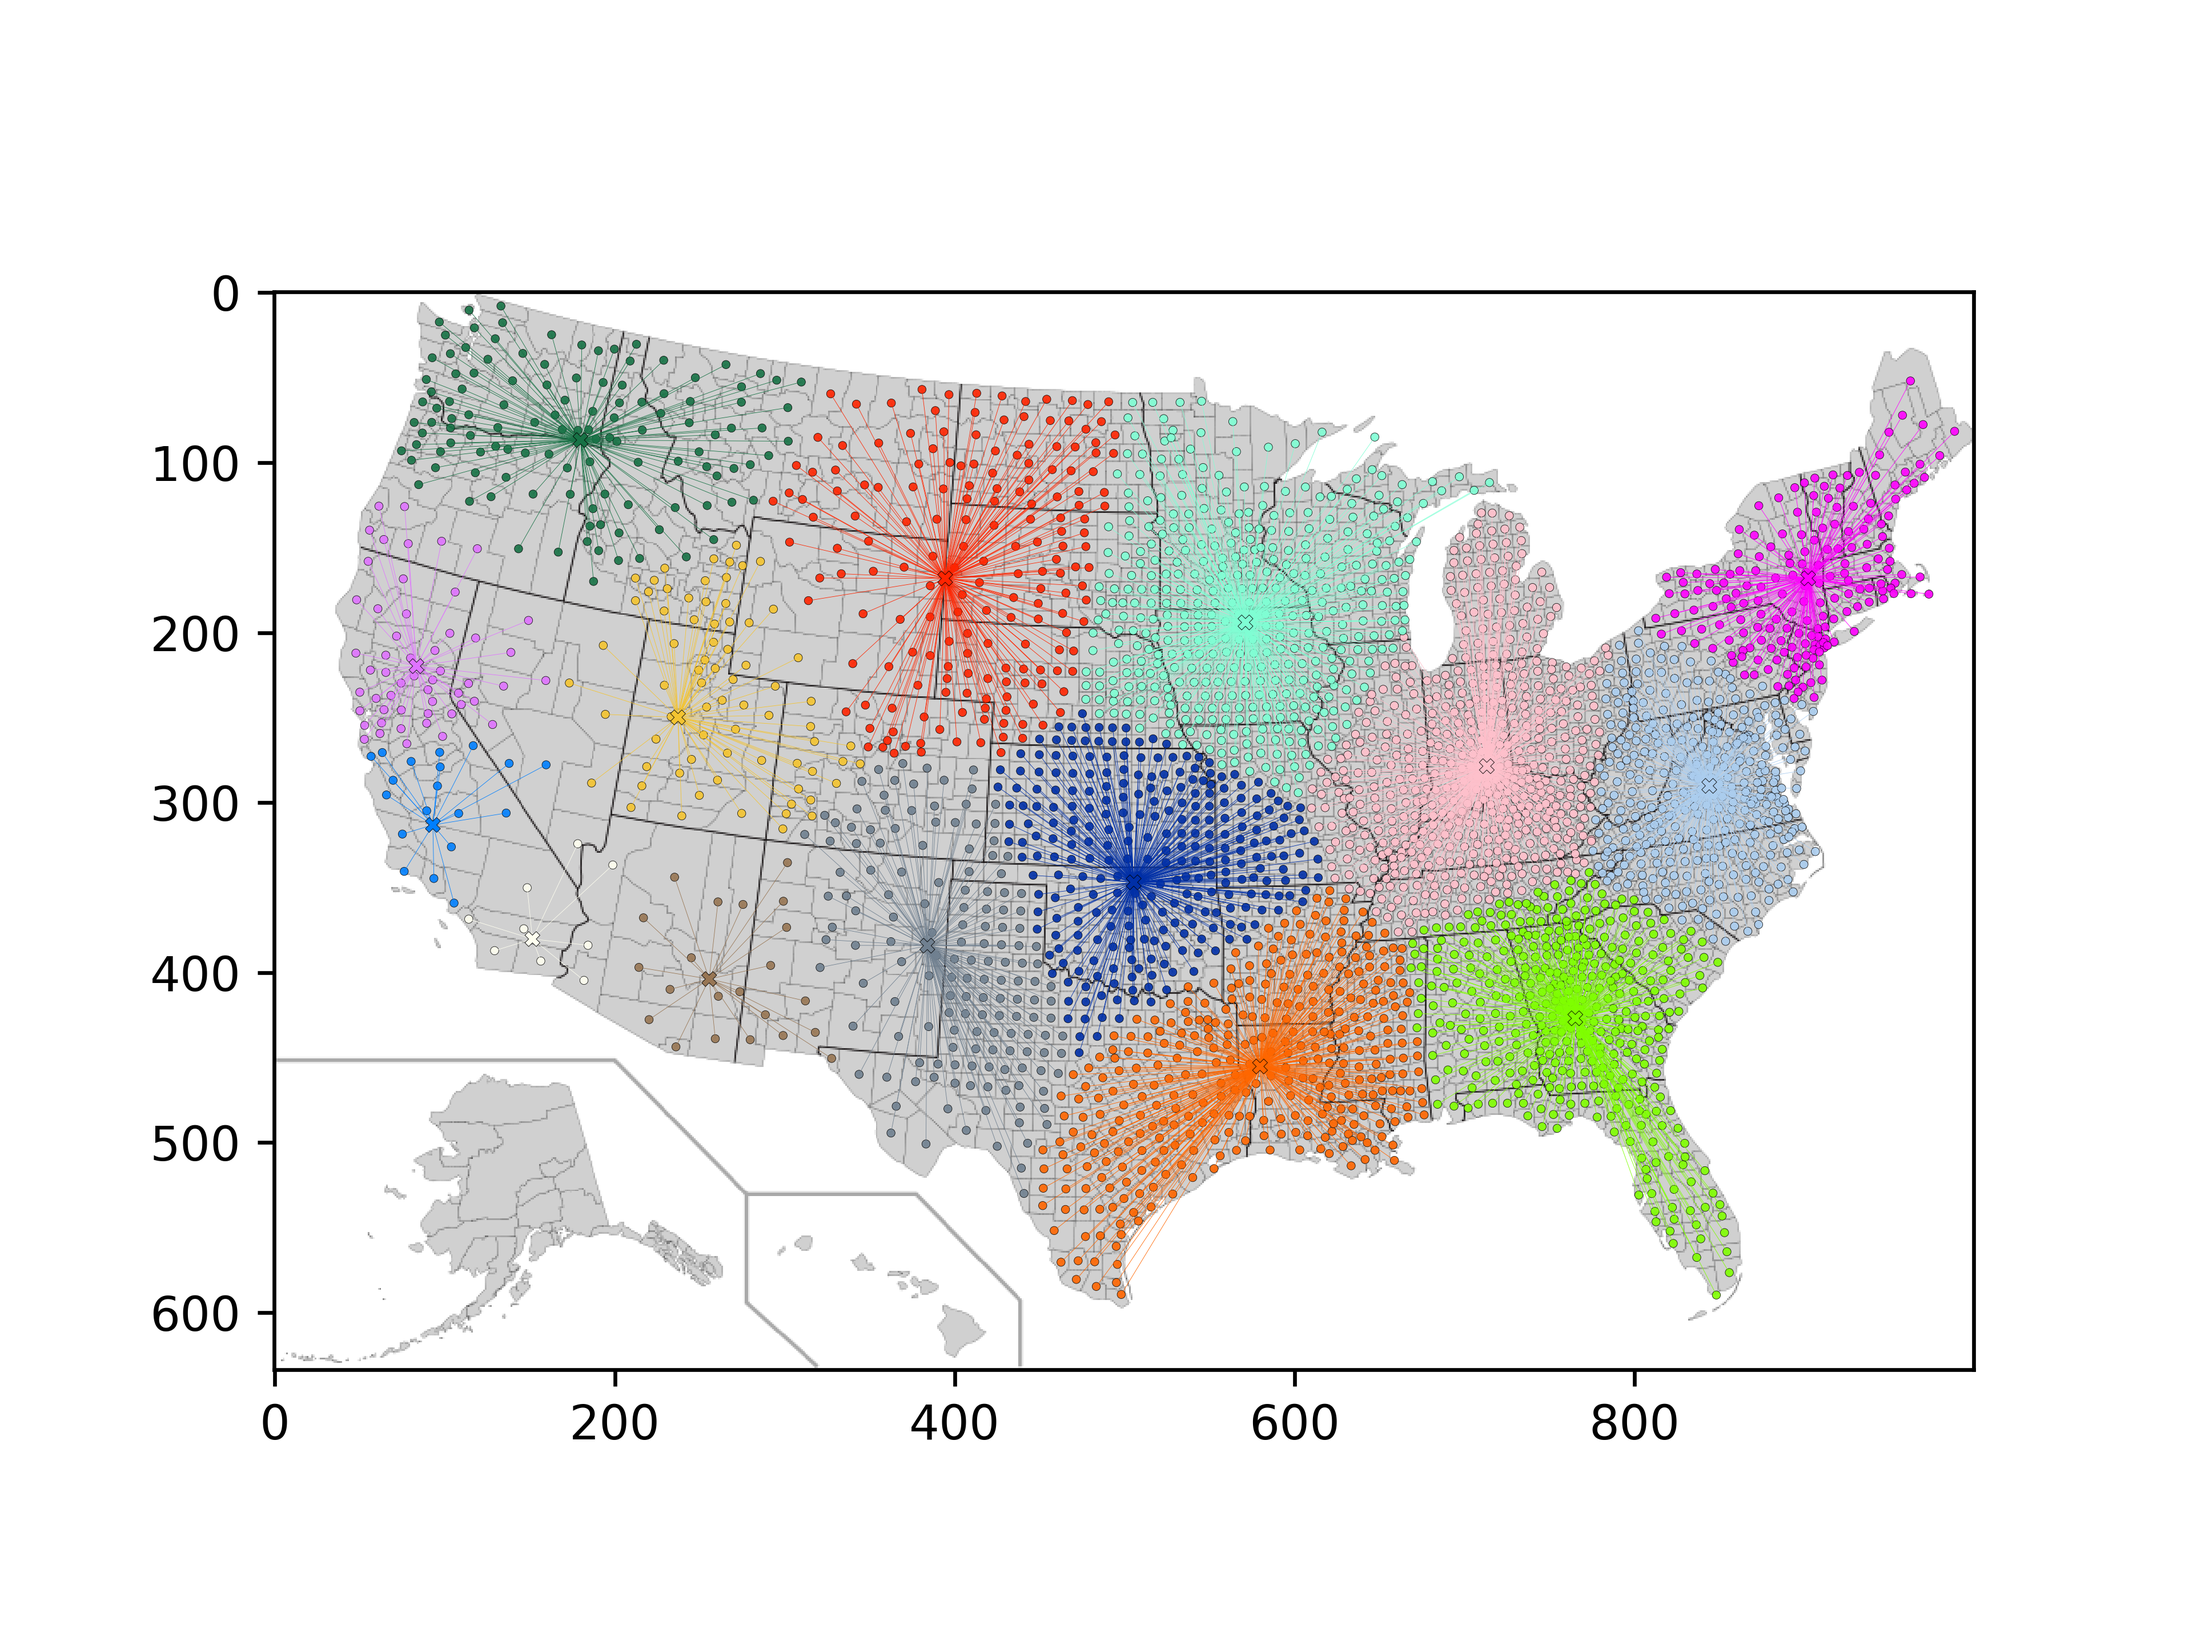
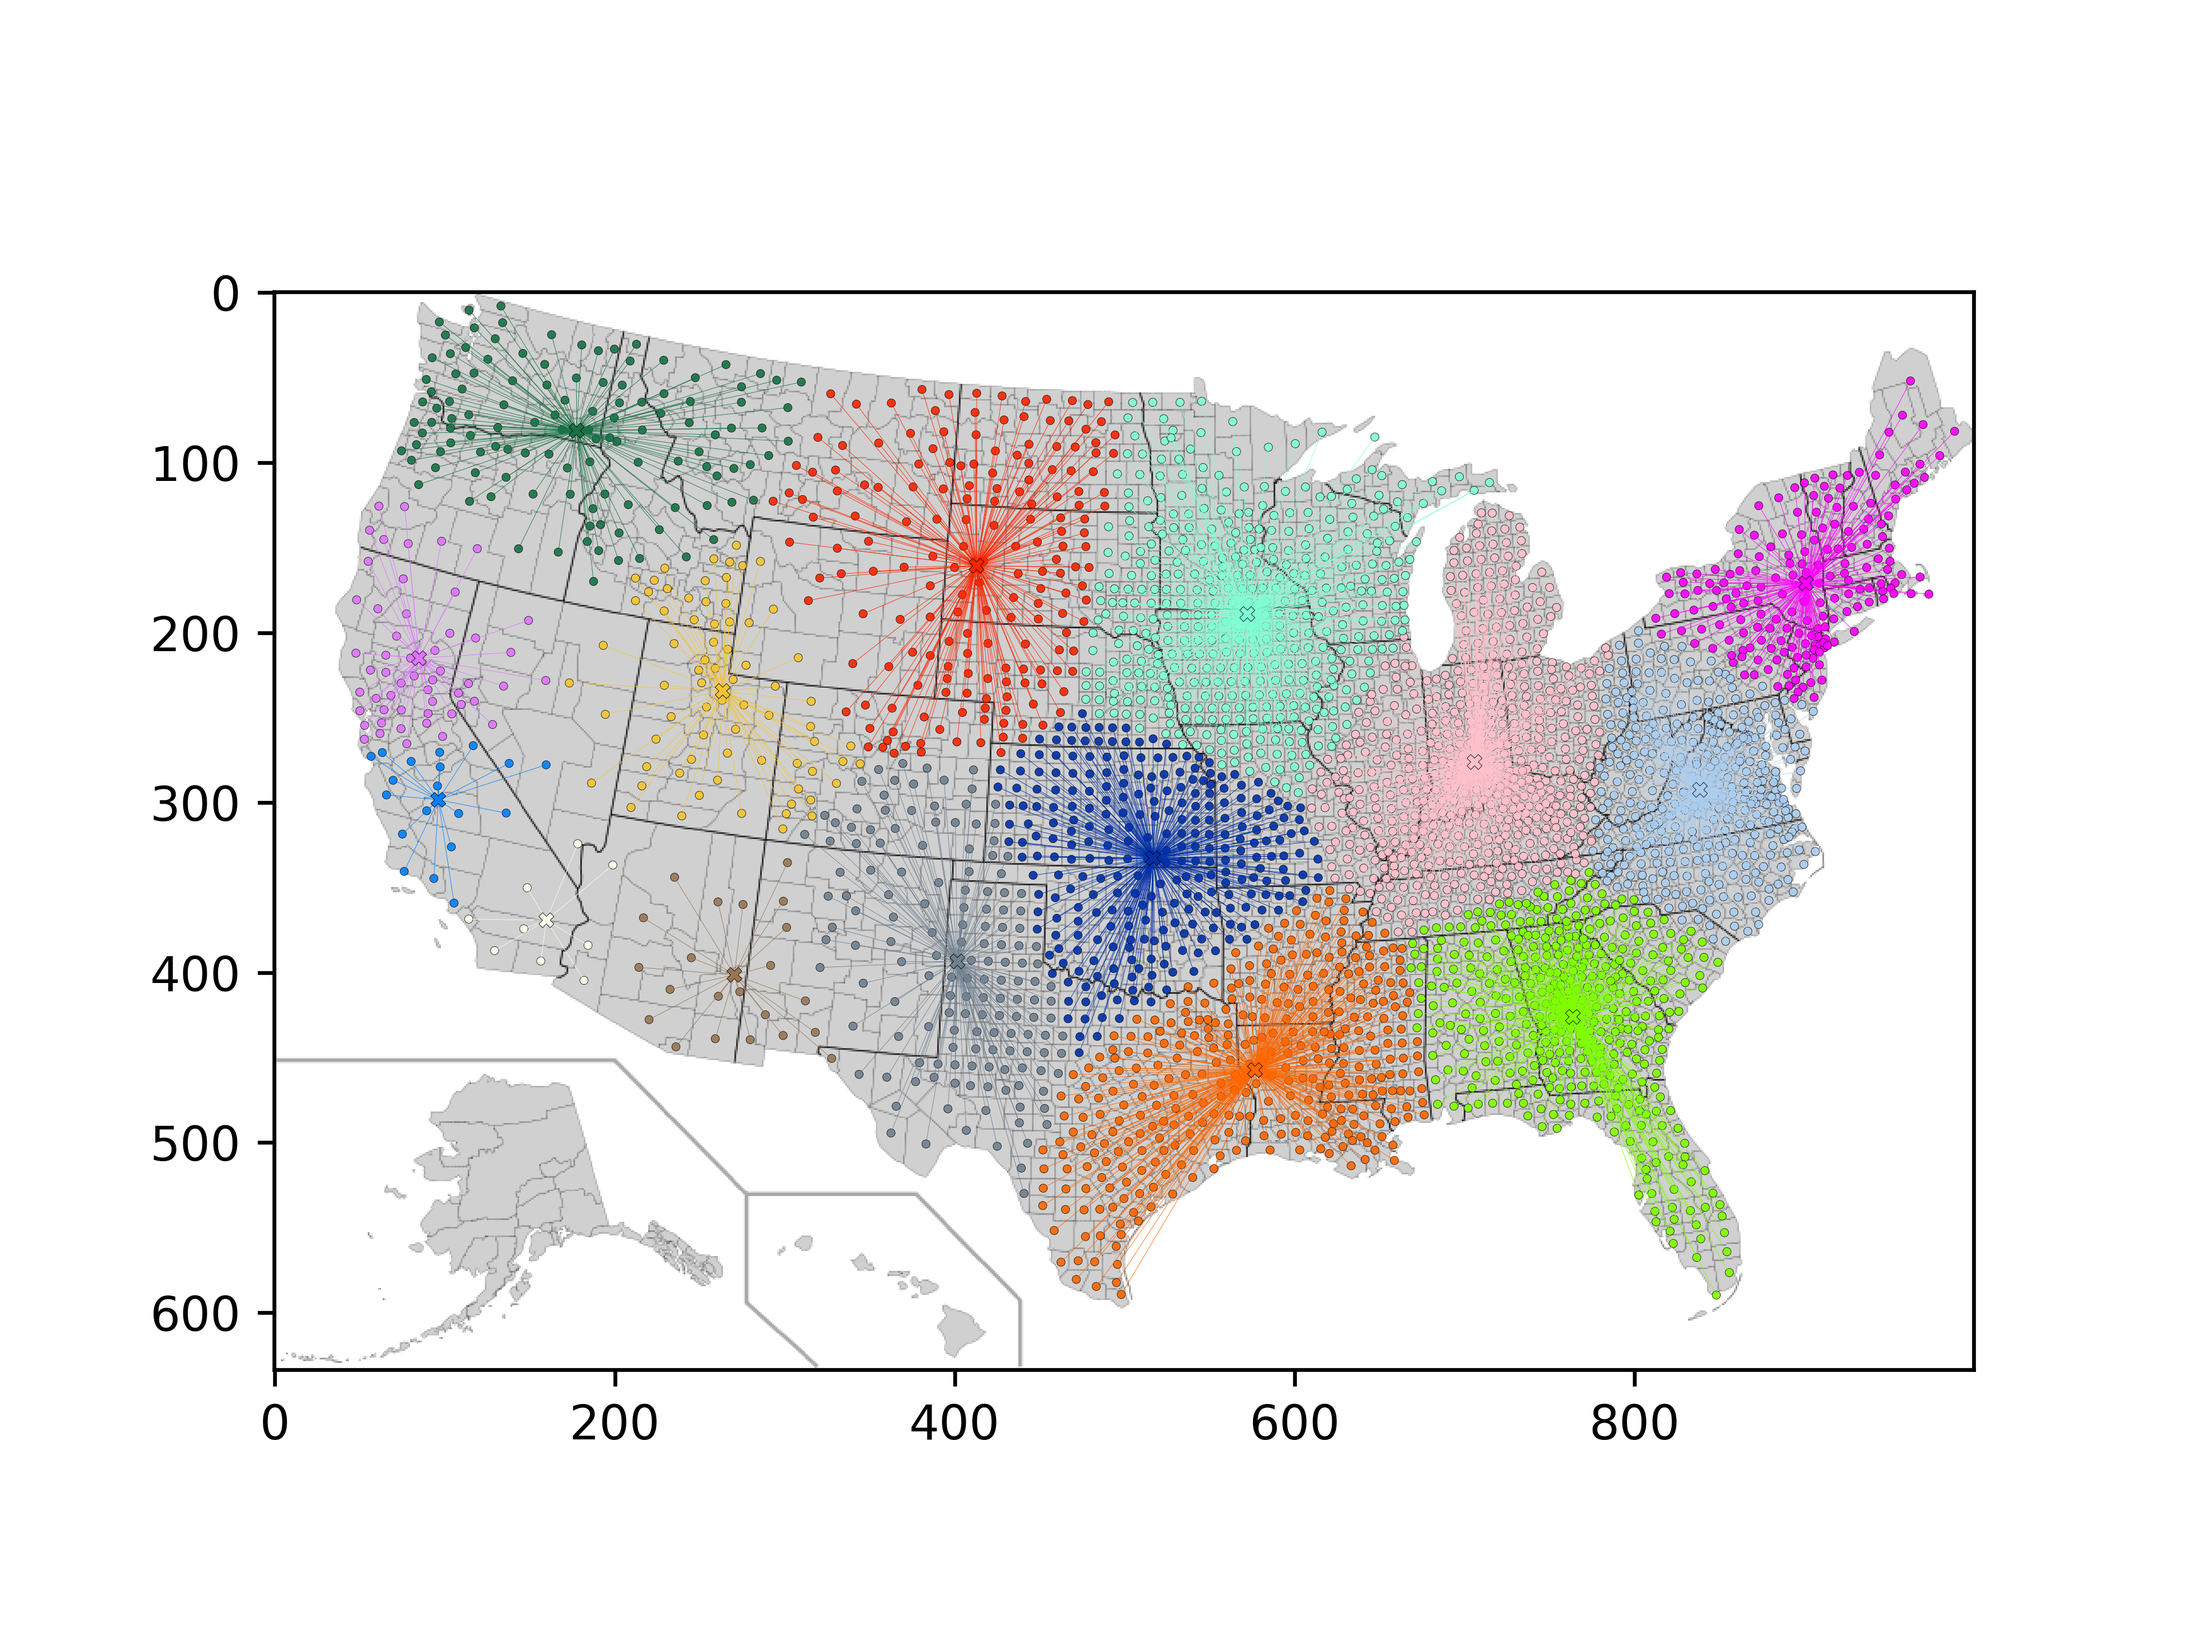
Sistemate alcune cosine piselline

diff --git a/Lab4/Script/main.py b/Lab4/Script/main.py
@@ -1,3 +1,4 @@
+import pprint
 import time
 from Lab4.Script.Parser import Parser
 from Lab4.Script.kmeans import kmeans
@@ -11,46 +12,53 @@ dataset_1041 = Parser('unifiedCancerData_1041.csv')
 dataset_3108 = Parser('unifiedCancerData_3108.csv')
 
 # Domanda 1
-"""
+
 start = time.time()
-clusters = h_clustering(dataset_3108, 15)
+clusters_1 = h_clustering(dataset_3108, 15)
 print("Tempo di esecuzione senza plot:", time.time()-start, "\n")
 
 start2 = time.time()
-scatter_plot_cluster(clusters, dataset_3108, "gerarchico_3108")
+scatter_plot_cluster(clusters_1, dataset_3108, "gerarchico_3108")
 print("Tempo di esecuzione plot:", time.time()-start2, '\n')
 
 # Domanda 2
 
 start = time.time()
-clusters = kmeans(dataset_3108, 15, 5)
+clusters_2 = kmeans(dataset_3108, 15, 5)
 print("Tempo di esecuzione senza plot:", time.time()-start, '\n')
 
 start2 = time.time()
-scatter_plot_cluster(clusters, dataset_3108, "kmeans_3108")
-print("Tempo di esecuzione plot:", time.time()-start2, '\n')"""
+scatter_plot_cluster(clusters_2, dataset_3108, "kmeans_3108")
+print("Tempo di esecuzione plot:", time.time()-start2, '\n')
 
 # Domanda 4
 
 start = time.time()
-clusters = h_clustering(dataset_212, 9)
+clusters_4 = h_clustering(dataset_212, 9)
 print("Tempo di esecuzione senza plot:", time.time()-start)
-#Domanda 6
-print("Distorsione clustering gerarchico:", distortion(clusters))
 
-"""start2 = time.time()
-scatter_plot_cluster(clusters, dataset_212, "gerarchico_212", '\n')
-print("Tempo di esecuzione plot:", time.time()-start2)"""
+start2 = time.time()
+scatter_plot_cluster(clusters_4, dataset_212, "gerarchico_212")
+print("Tempo di esecuzione plot:", time.time()-start2, '\n')
 
 # Domanda 5
 
 start = time.time()
-clusters = kmeans(dataset_212, 9, 5)
+clusters_5 = kmeans(dataset_212, 9, 5)
 print("Tempo di esecuzione senza plot:", time.time()-start)
-#Domanda 6
-print("Distorsione clustering kmeans:", distortion(clusters))
-"""
+
 start2 = time.time()
-scatter_plot_cluster(clusters, dataset_212, "kmeans_212", '\n')
-print("Tempo di esecuzione plot:", time.time()-start2)"""
+scatter_plot_cluster(clusters_5, dataset_212, "kmeans_212")
+print("Tempo di esecuzione plot:", time.time()-start2, '\n')
+
+#Domanda 6
+
+clustozzo = kmeans(dataset_526, 16, 5)
+
+clustozzo2 = h_clustering(dataset_526, 16)
+
+
+print("Distorsione clustering gerarchico:", '%.5e' % distortion(clustozzo2))
+
+print("Distorsione clustering kmeans:", '%.5e' % distortion(clustozzo))
 

diff --git a/Lab4/Script/hierarchical_Scikit-Learn.py b/Lab4/Script/hierarchical_Scikit-Learn.py
@@ -5,11 +5,12 @@ import numpy as np
 import matplotlib.pyplot as plt
 import math
 from scipy.cluster.hierarchy import dendrogram, linkage
-from sklearn.cluster import KMeans
+from sklearn.cluster import KMeans, AgglomerativeClustering
 
 from Lab4.Script import Parser
+from Lab4.Script.kmeans import kmeans
 
-lists = Parser.Parser('unifiedCancerData_3108.csv')
+lists = Parser.Parser('unifiedCancerData_562.csv')
 """lists = [Contea.Contea(0, 1, 1, 0, 0), Contea.Contea(1, 3, 2.5, 0, 0), Contea.Contea(2, 1.25, 3.75, 0, 0),
         Contea.Contea(3, 7, 2, 0, 0), Contea.Contea(4, 5, 6, 0, 0), Contea.Contea(5, 6.5, 5.5, 0, 0),
        Contea.Contea(6, 6, 6, 0, 0)]"""
@@ -22,16 +23,21 @@ labels = [str(math.floor(i.x)) + " , " + str(math.floor(i.y)) for i in lists]
 start=time.time()
 sortedP = sorted(lists, key=lambda c: c.population, reverse=True)  # sortedP = P ordinato secondo la popolazione
 
-init = np.array([[sortedP[i].x, sortedP[i].y] for i in range(15)], np.float)
+init = np.array([[sortedP[i].x, sortedP[i].y] for i in range(16)], np.float)
 
-cluster = KMeans(n_clusters=15, max_iter=100, algorithm='auto', init=init)
+cluster = KMeans(n_clusters=16, max_iter=5, algorithm='auto', init=init)
+
+#cluster = AgglomerativeClustering(n_clusters=16, affinity='euclidean', linkage='single')
 
 cluster.fit_predict(X)
 
 print(time.time() - start)
-print(cluster.labels_)
+pprint.pprint(cluster.labels_)
 
+clustozzo2 = kmeans(lists, 16, 5)
 
+pprint.pprint(clustozzo2.keys())
+#pprint.pprint(clustozzo2)
 
 plt.scatter(X[:,0],X[:,1], c=cluster.labels_, cmap='rainbow')
 plt.show()
@@ -58,6 +64,6 @@ def to_codebook(X, part):
     for i in range(part.min(), part.max()+1):
         codebook.append(X[part == i].mean(0))
 
-    return np.vstack(codebook)
+    return codebook
 
-pprint.pprint(to_codebook(X, cluster.labels_))
+print(to_codebook(X, cluster.labels_))

diff --git a/Lab4/Script/kmeans.py b/Lab4/Script/kmeans.py
@@ -11,10 +11,17 @@ def kmeans(P, k, q):
 
     for i in range(q):
         clusters = partition(P, centers)
+        if i == q-1:
+            old_centers = centers.copy()
         for j in range(k):
             centers[j] = calc_center(clusters[centers[j]])
-    return clusters
 
+    for i in range(k):
+        clusters[centers[i]] = clusters[old_centers[i]]
+        if centers[i] != old_centers[i]:
+            del clusters[old_centers[i]]
+
+    return clusters
 
 def partition(P, centers):
     c = {i: [] for i in centers}  # dizionario con chiavi = centri, valori = lista di punti nel cluster con centro == chiave

diff --git a/Lab4/Script/utils.py b/Lab4/Script/utils.py
@@ -14,14 +14,12 @@ def calc_center(points):
 
 
 def euclidean_dist(c1, c2):
-    return math.sqrt((c1[0] - c2[0])**2 + (c1[1] - c2[1])**2)
+    return math.sqrt(math.pow(c1[0] - c2[0], 2) + math.pow(c1[1] - c2[1], 2))
 
 def distortion(clusters):
     sum = 0
     for c in clusters:
-        #print("key:", c)
         for val in clusters[c]:
-            #print("val:", val)
             sum += math.pow(euclidean_dist((c[0], c[1]), (val.x, val.y)), 2) * val.population
     return sum
 
